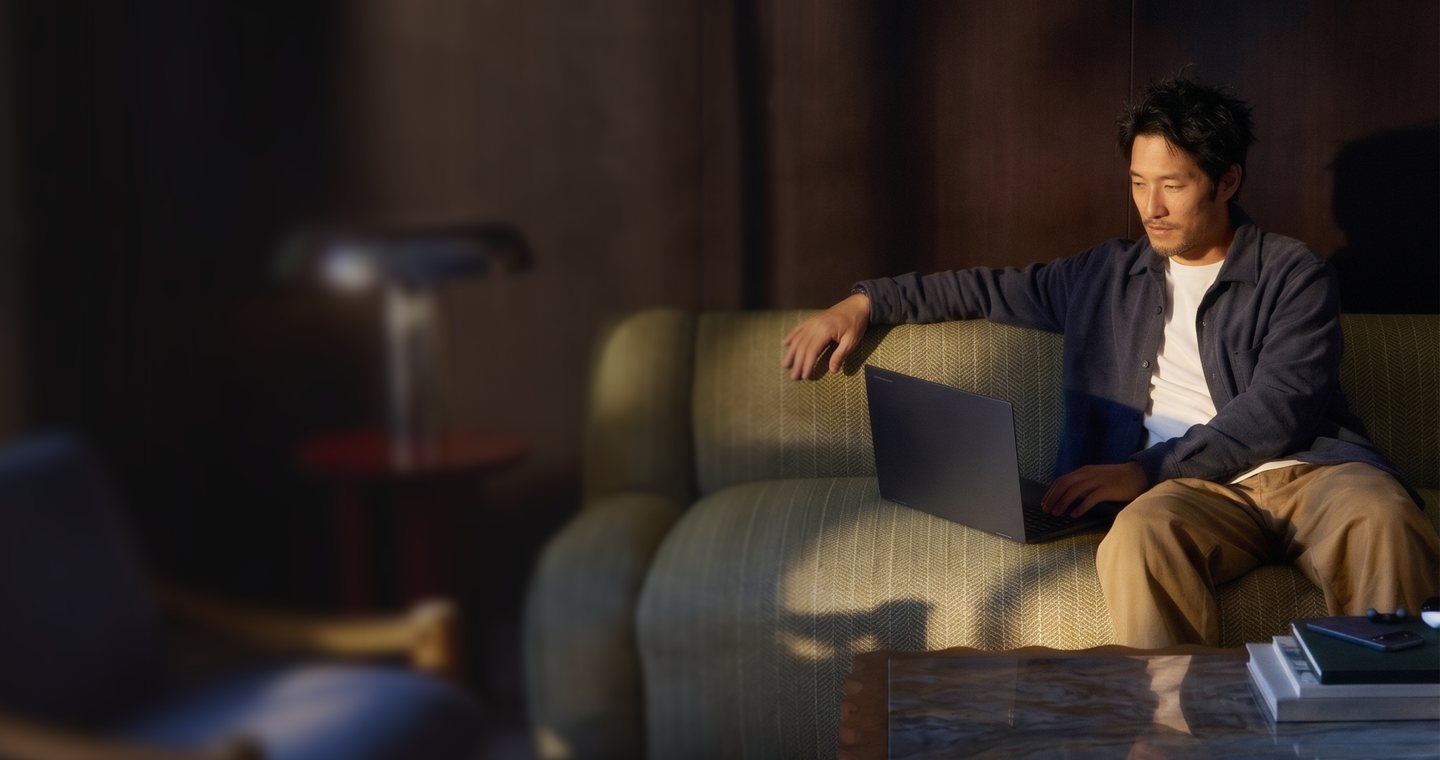
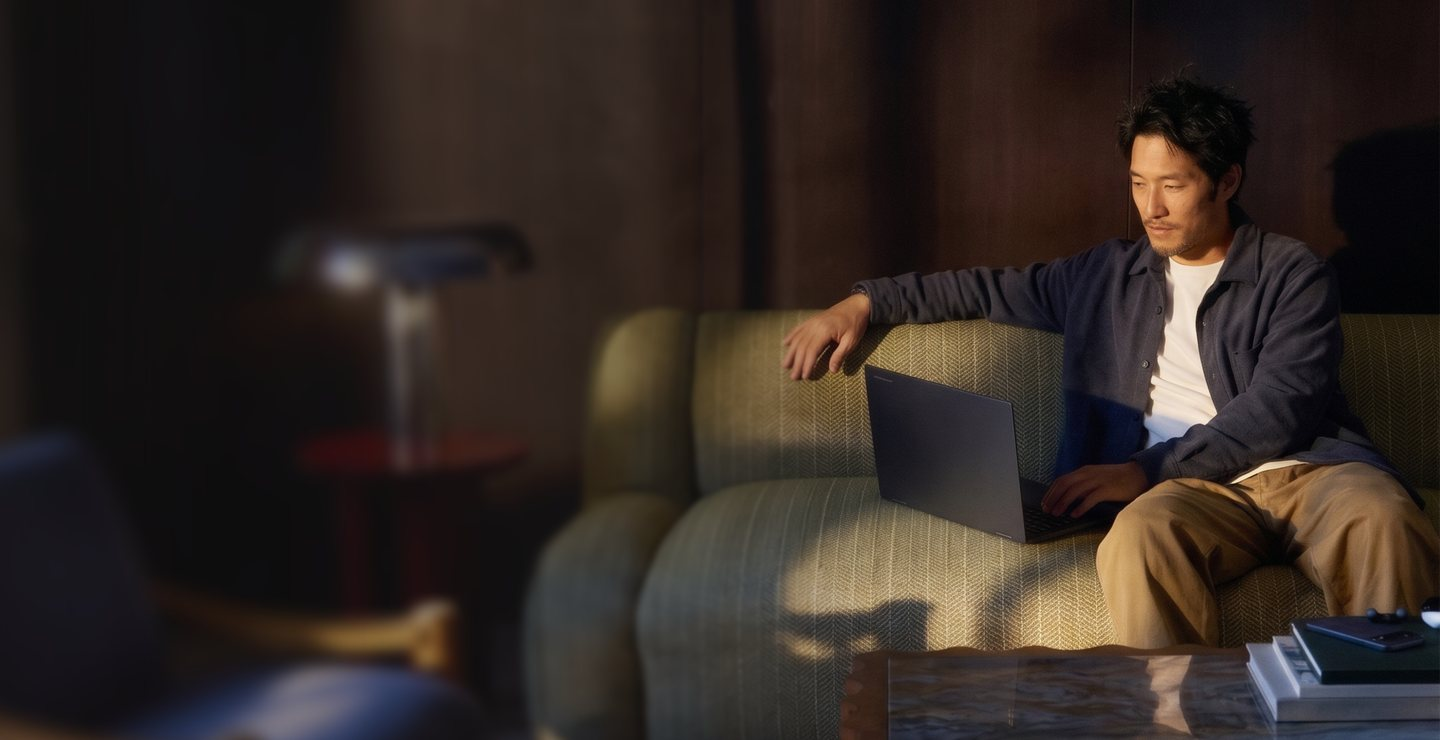
Creative Team hero: 740px, as in the Figma v5 frame; scales from 1440 x 740 above 1440px
Claude-Session: https://claude.ai/code/session_019fPYJCfpmtv75kqvdKdEBc

diff --git a/css/ctaas.css b/css/ctaas.css
@@ -228,7 +228,7 @@
    to the right edge at every width; above 1440px the hero grows with the width so the framing never changes. */
 .ct-hero--v5 { background-image: url("../assets/img/ctaas/hero-v5.jpg"); background-image: image-set(url("../assets/img/ctaas/hero-v5.webp") 1x, url("../assets/img/ctaas/hero-v5@2x.webp") 2x); background-size: cover; background-position: 100% 0; }
 .ct-hero--v5::before { content: none; }
-@media (min-width: 992px) { .ct-hero--v5 { height: max(760px, 52.7778vw); } .ct-hero--v5 .ct-hero__inner { padding-top: max(230px, 15.9722vw); } .ct-hero--v5 + .ct-clients { padding-top: 112px; } }
+@media (min-width: 992px) { .ct-hero--v5 { height: max(740px, 51.3889vw); } .ct-hero--v5 .ct-hero__inner { padding-top: max(230px, 15.9722vw); } .ct-hero--v5 + .ct-clients { padding-top: 112px; } }
 
 /* =========================== responsive =========================== */
 @media (max-width: 1100px) {

diff --git a/creative-team.html b/creative-team.html
@@ -18,7 +18,7 @@
   <link rel="stylesheet" href="css/base.css?v=20261006a">
   <link rel="stylesheet" href="css/menu.css?v=20261029a">
   <link rel="stylesheet" href="css/sections.css?v=20261022u">
-  <link rel="stylesheet" href="css/ctaas.css?v=38">
+  <link rel="stylesheet" href="css/ctaas.css?v=39">
 </head>
 <body class="is-ctaas">
 

diff --git a/fondation.html b/fondation.html
@@ -18,7 +18,7 @@
   <link rel="stylesheet" href="css/base.css?v=20261006a">
   <link rel="stylesheet" href="css/menu.css?v=20261029a">
   <link rel="stylesheet" href="css/sections.css?v=20261022u">
-  <link rel="stylesheet" href="css/ctaas.css?v=38">
+  <link rel="stylesheet" href="css/ctaas.css?v=39">
 </head>
 <body class="is-ctaas">
 
